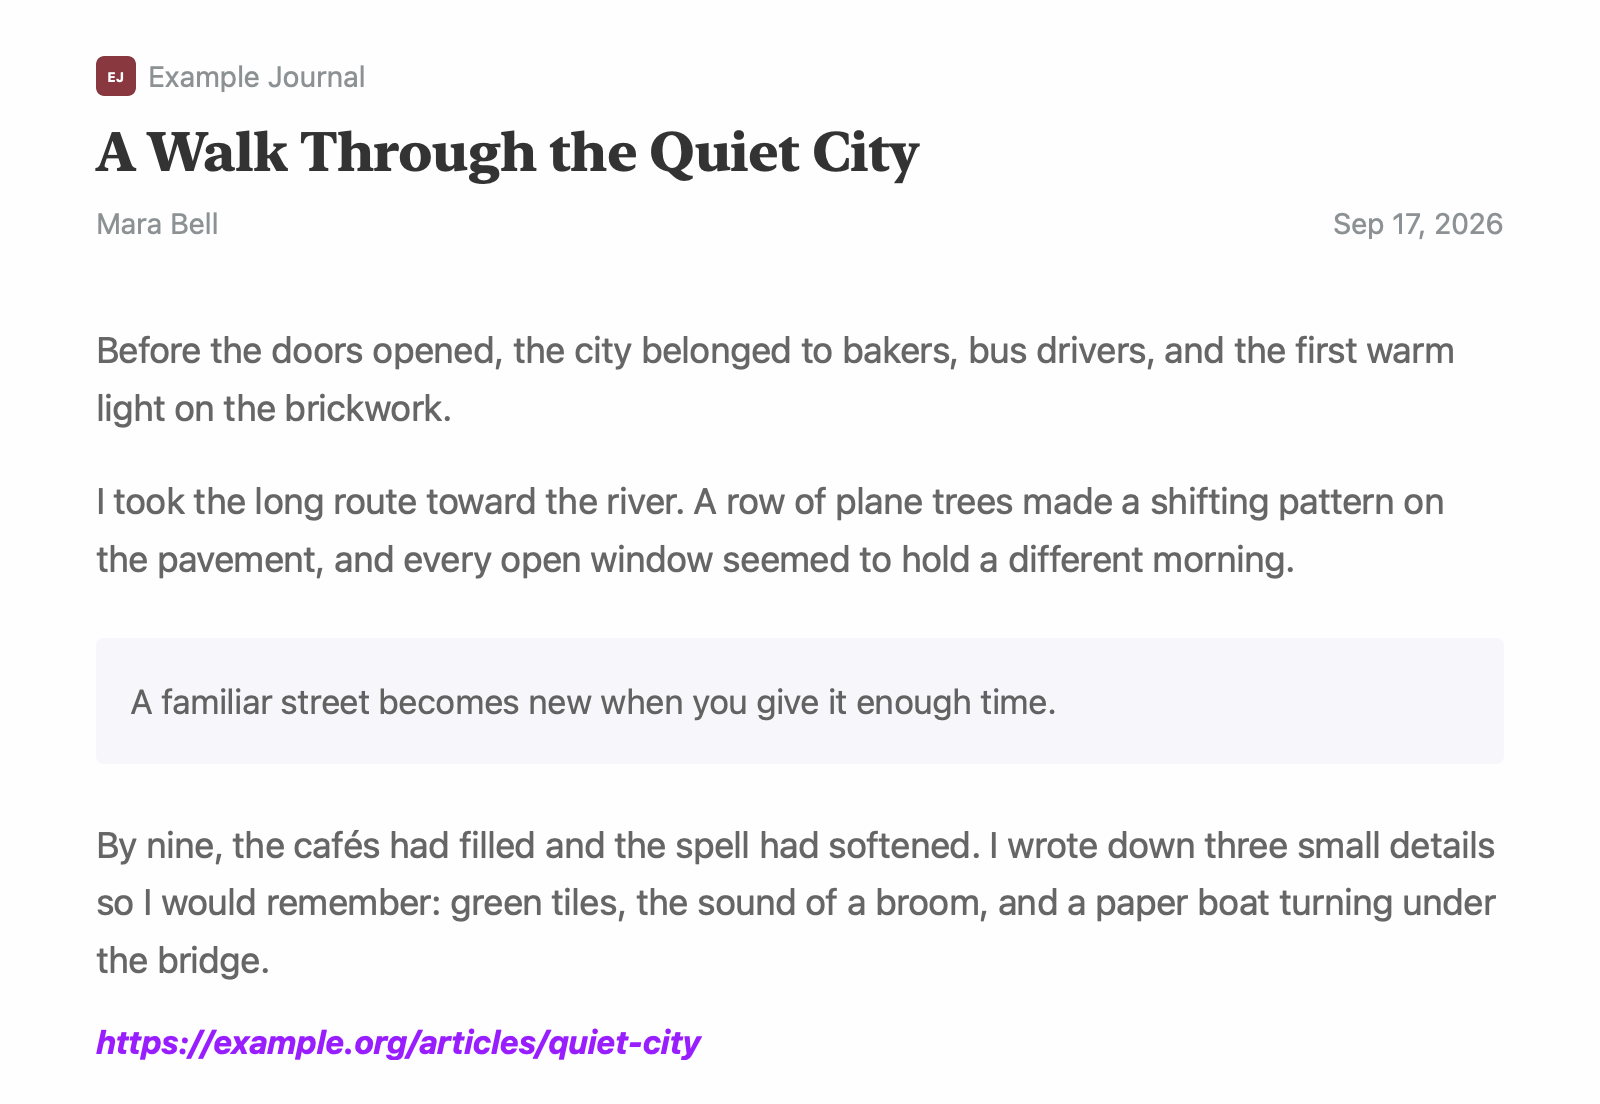
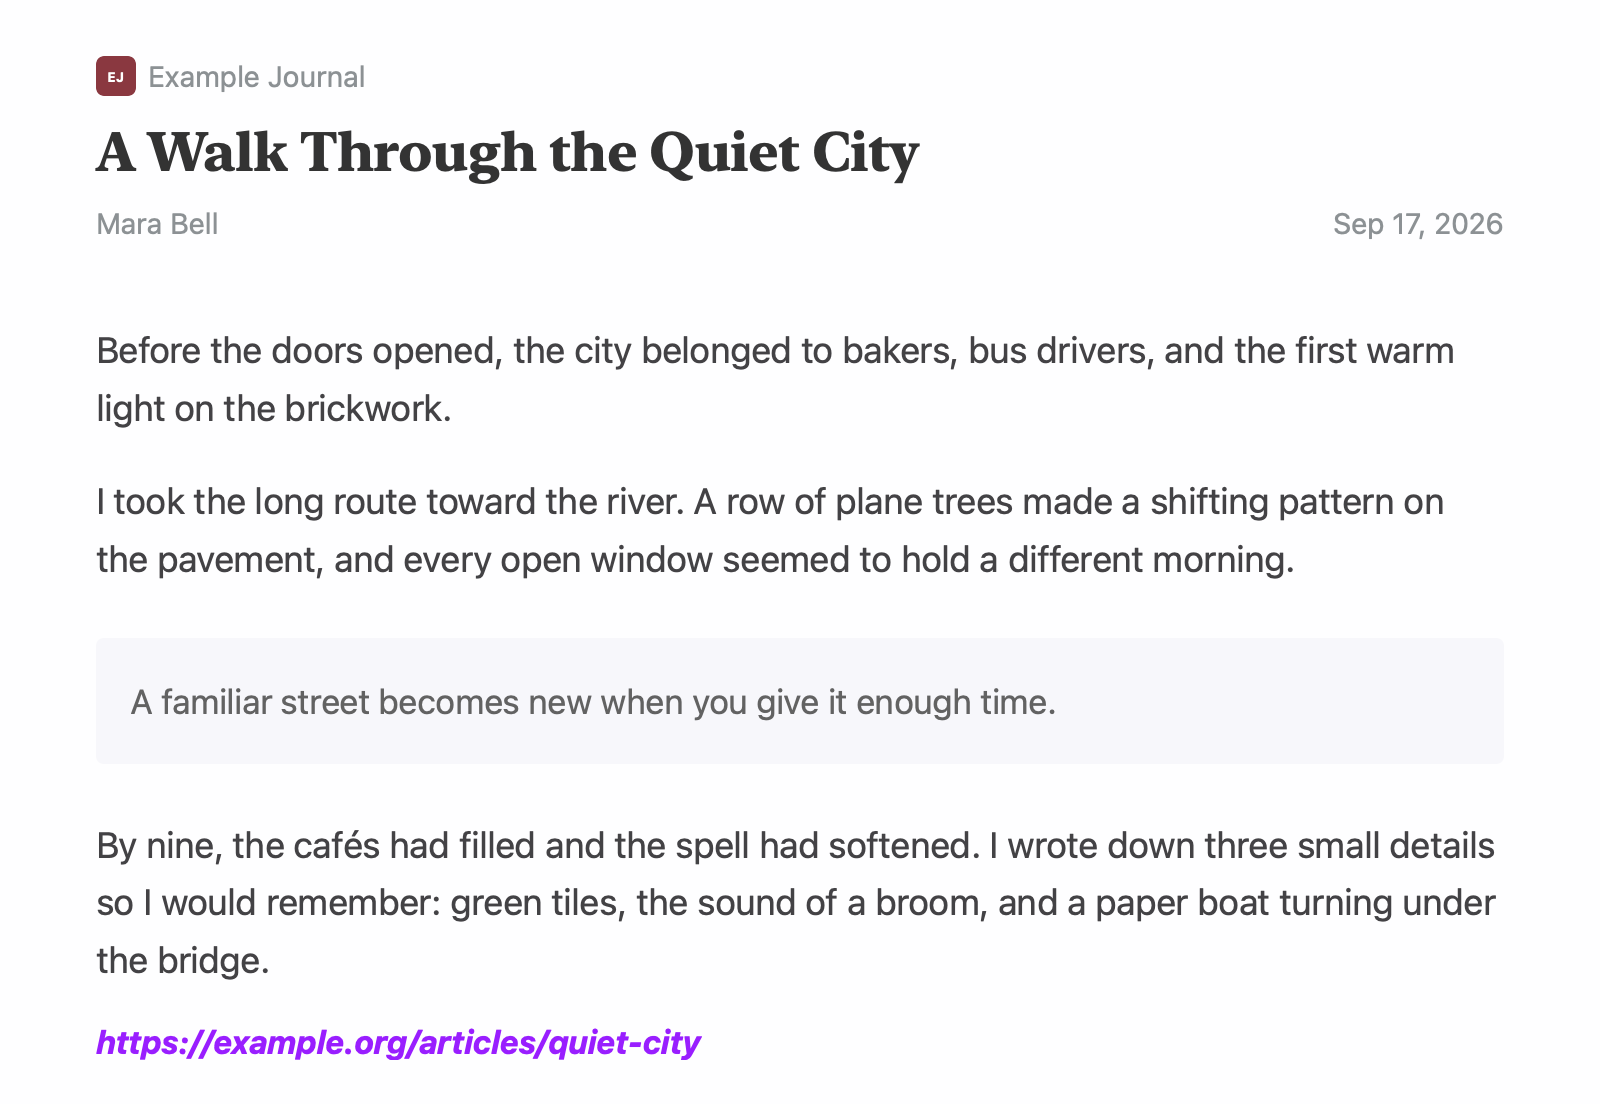
Improve readability

diff --git a/Modern.nnwtheme/stylesheet.css b/Modern.nnwtheme/stylesheet.css
@@ -6,8 +6,8 @@
 	color-scheme: light dark;
 
 	--body-background: #FEFEFF;
-	--body-color: #666;
-	--body-code-color: #666;
+	--body-color: #434245;
+	--body-code-color: #434245;
 	--header-color: rgba(0, 0, 0, 0.3);
 	--header-table-border-color: rgba(0, 0, 0, 0.1);
 	--system-message-color: #cbcbcb;
